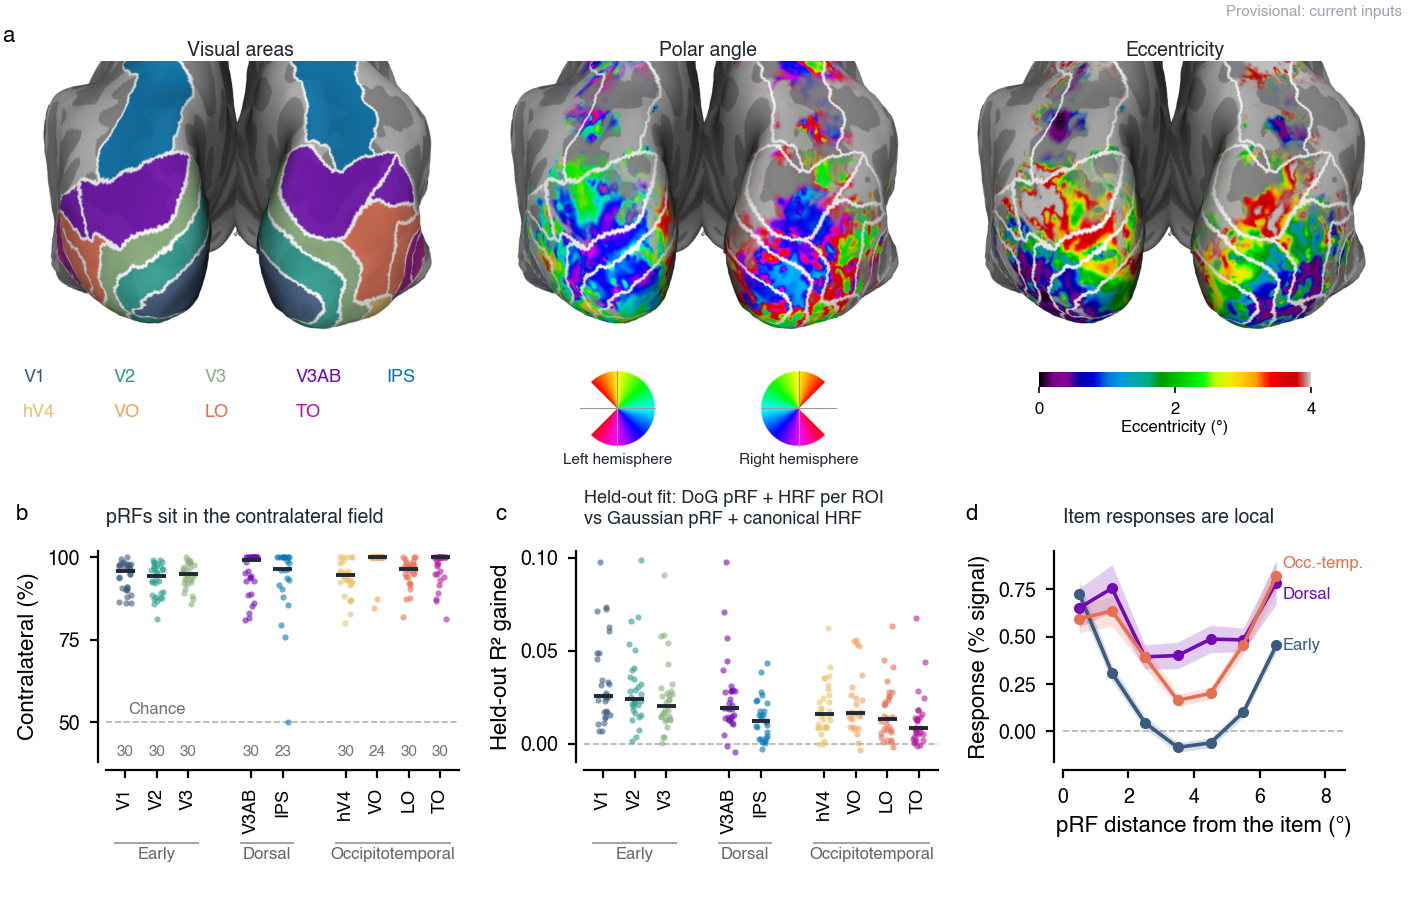
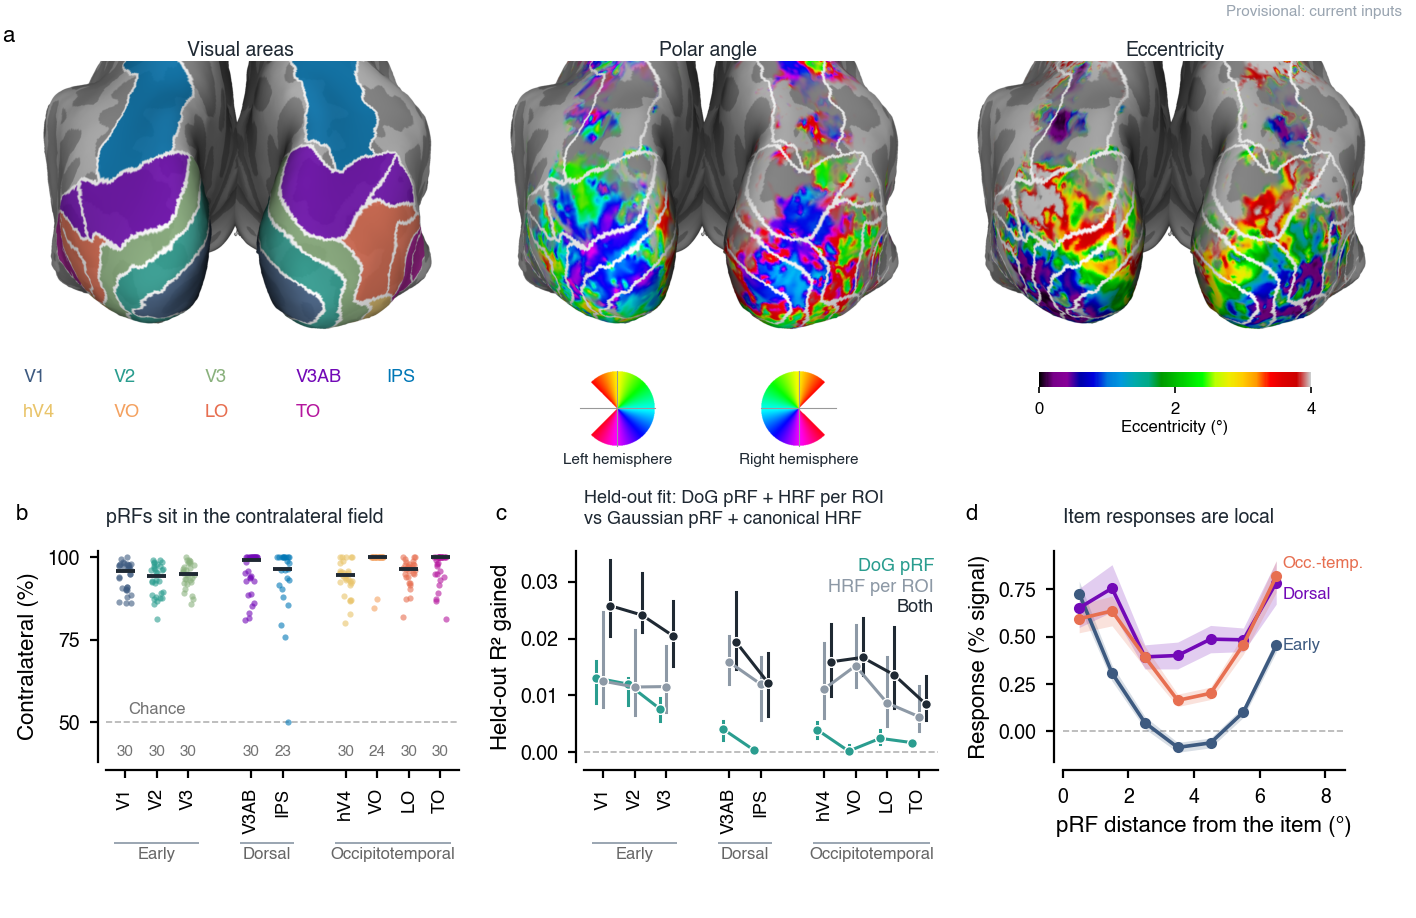
Fig. 3c: held-out R2 gained by the DoG pRF, the per-ROI HRF and both, per ROI

Changed region(s): [[0.3729, 0.61, 0.6525, 0.8235], [0.5904, 0.61, 0.6525, 0.671]]

diff --git a/retsupp/visualize/paper/fig3_prf_fits.py b/retsupp/visualize/paper/fig3_prf_fits.py
@@ -32,9 +32,10 @@ LEGEND = """
 surface of one subject (sub-23, posterior view; voxels with R² above the R² mixture threshold). Polar-angle key: the visual
 field, coloured as mapped on the contralateral hemisphere. b, Share of pRF centres in the contralateral visual field per ROI,
 voxels with R² ≥ .1 inside the bar aperture; dots are subjects, lines medians; numbers give the subjects per ROI. c, Held-out
-R² gained by the pRF model used for the gain fits (difference-of-Gaussians pRF, one HRF per subject × ROI) over a Gaussian pRF
-with the canonical HRF, per ROI: three folds of runs, voxels with cross-run reliability > 0 in the training runs, median over
-voxels, mean over folds; dots are subjects (n = 30), lines medians. d, Response to a neutral item (at an LP location) against the distance of the pRF centre from that item: deconvolved
+R² gained per ROI over a Gaussian pRF with the canonical HRF by a difference-of-Gaussians pRF (teal), by one HRF per subject
+× ROI on top of the DoG pRF (grey), and by both together, the model used for the gain fits (black): three folds of runs,
+voxels with cross-run reliability > 0 in the training runs, median over voxels, mean over folds; points and bars, median
+over subjects (n = 30) and bootstrapped 95% CI. d, Response to a neutral item (at an LP location) against the distance of the pRF centre from that item: deconvolved
 response (nideconv), mean over 3.2-6.4 s minus −4 to 0 s, reliable voxels binned by distance (1° bins), pooled per pathway
 weighted by voxel count; lines and bands, mean ± SEM across subjects. Items appear at all eight ring positions at once,
 so pRFs far from this item lie near the opposite ones and the response rises again; between the items, near fixation, it
@@ -119,23 +120,38 @@ def panel_contra(ax):
     roi_axis(ax)
 
 
+PRF_TEAL = '#2A9D8F'
+STEPS = [('DoG pRF', 'dog', PRF_TEAL), ('HRF per ROI', 'hrf', '#8D99A6'), ('Both', 'both', FG)]
+
+
 def gain_r2(cv_table, hrf_table):
-    """Per subject × ROI: held-out R² of DoG with the per-ROI HRF (model 14) minus Gaussian with the canonical HRF (model 1)."""
+    """Per subject × ROI, held-out R² gained over a Gaussian pRF with the canonical HRF (model 1) by: the DoG pRF (model 2),
+    the per-ROI HRF on top of the DoG pRF (model 14 − model 2), and both (model 14 − model 1)."""
     a = pd.read_csv(cv_table, sep='\t')
-    a = a[(a.selection == 'reliable') & (a.model == 1) & a.roi.isin(ROI_ORDER)].groupby(['subject', 'roi']).median_r2.mean()
+    a = a[(a.selection == 'reliable') & a.roi.isin(ROI_ORDER)].groupby(['subject', 'roi', 'model']).median_r2.mean().unstack()
     b = pd.read_csv(hrf_table, sep='\t')
     b = b[(b.model == 14) & b.roi.isin(ROI_ORDER)].groupby(['subject', 'roi']).median_r2.mean()
-    return (b - a).dropna().rename('d').reset_index(), a
+    out = pd.DataFrame(dict(dog=a[2] - a[1], hrf=b - a[2], both=b - a[1])).dropna().reset_index()
+    return out, a[1]
 
 
 def panel_r2(ax, d):
-    for i, roi in enumerate(ROI_ORDER):
-        v = d[d.roi == roi].d.to_numpy()
-        rng = np.random.default_rng(i)
-        ax.scatter(ROI_X[roi] + rng.uniform(-.2, .2, len(v)), v, s=5, color=ROI_COLORS[roi], alpha=.6, lw=0)
-        ax.plot([ROI_X[roi] - .3, ROI_X[roi] + .3], [np.median(v)] * 2, color=FG, lw=1.4, solid_capstyle='butt')
+    """Median over subjects per ROI and its bootstrapped 95% CI, one line per comparison."""
+    from retsupp.visualize.paper.fig45_common import median_ci
+    offs = dict(zip([k for _, k, _ in STEPS], (-.22, 0., .22)))
+    for lab, key, col in STEPS:
+        for grp, rois in ROI_GROUPS:
+            xs, ms = [], []
+            for roi in rois:
+                m, lo, hi = median_ci(d[d.roi == roi][key].to_numpy())
+                x = ROI_X[roi] + offs[key]
+                ax.plot([x, x], [lo, hi], color=col, lw=1.1, zorder=2)
+                xs.append(x)
+                ms.append(m)
+            ax.plot(xs, ms, 'o-', color=col, ms=3.5, lw=1.1, mec='w', mew=.5, zorder=3)
+    for k, (lab, _, col) in enumerate(STEPS):
+        ax.text(.99, .97 - k * .1, lab, transform=ax.transAxes, color=col, fontsize=6.5, ha='right', va='top')
     ax.axhline(0, color='.7', lw=.6, ls='--', zorder=0)
-    ax.set_yticks([0, .05, .1])
     ax.set_ylabel('Held-out R² gained')
     offset_spines(ax)
     roi_axis(ax)

diff --git a/notes/figures/paper_2026-11/fig3_prf_fits.md b/notes/figures/paper_2026-11/fig3_prf_fits.md
@@ -2,9 +2,10 @@
 surface of one subject (sub-23, posterior view; voxels with R² above the R² mixture threshold). Polar-angle key: the visual
 field, coloured as mapped on the contralateral hemisphere. b, Share of pRF centres in the contralateral visual field per ROI,
 voxels with R² ≥ .1 inside the bar aperture; dots are subjects, lines medians; numbers give the subjects per ROI. c, Held-out
-R² gained by the pRF model used for the gain fits (difference-of-Gaussians pRF, one HRF per subject × ROI) over a Gaussian pRF
-with the canonical HRF, per ROI: three folds of runs, voxels with cross-run reliability > 0 in the training runs, median over
-voxels, mean over folds; dots are subjects (n = 30), lines medians. d, Response to a neutral item (at an LP location) against the distance of the pRF centre from that item: deconvolved
+R² gained per ROI over a Gaussian pRF with the canonical HRF by a difference-of-Gaussians pRF (teal), by one HRF per subject
+× ROI on top of the DoG pRF (grey), and by both together, the model used for the gain fits (black): three folds of runs,
+voxels with cross-run reliability > 0 in the training runs, median over voxels, mean over folds; points and bars, median
+over subjects (n = 30) and bootstrapped 95% CI. d, Response to a neutral item (at an LP location) against the distance of the pRF centre from that item: deconvolved
 response (nideconv), mean over 3.2-6.4 s minus −4 to 0 s, reliable voxels binned by distance (1° bins), pooled per pathway
 weighted by voxel count; lines and bands, mean ± SEM across subjects. Items appear at all eight ring positions at once,
 so pRFs far from this item lie near the opposite ones and the response rises again; between the items, near fixation, it
